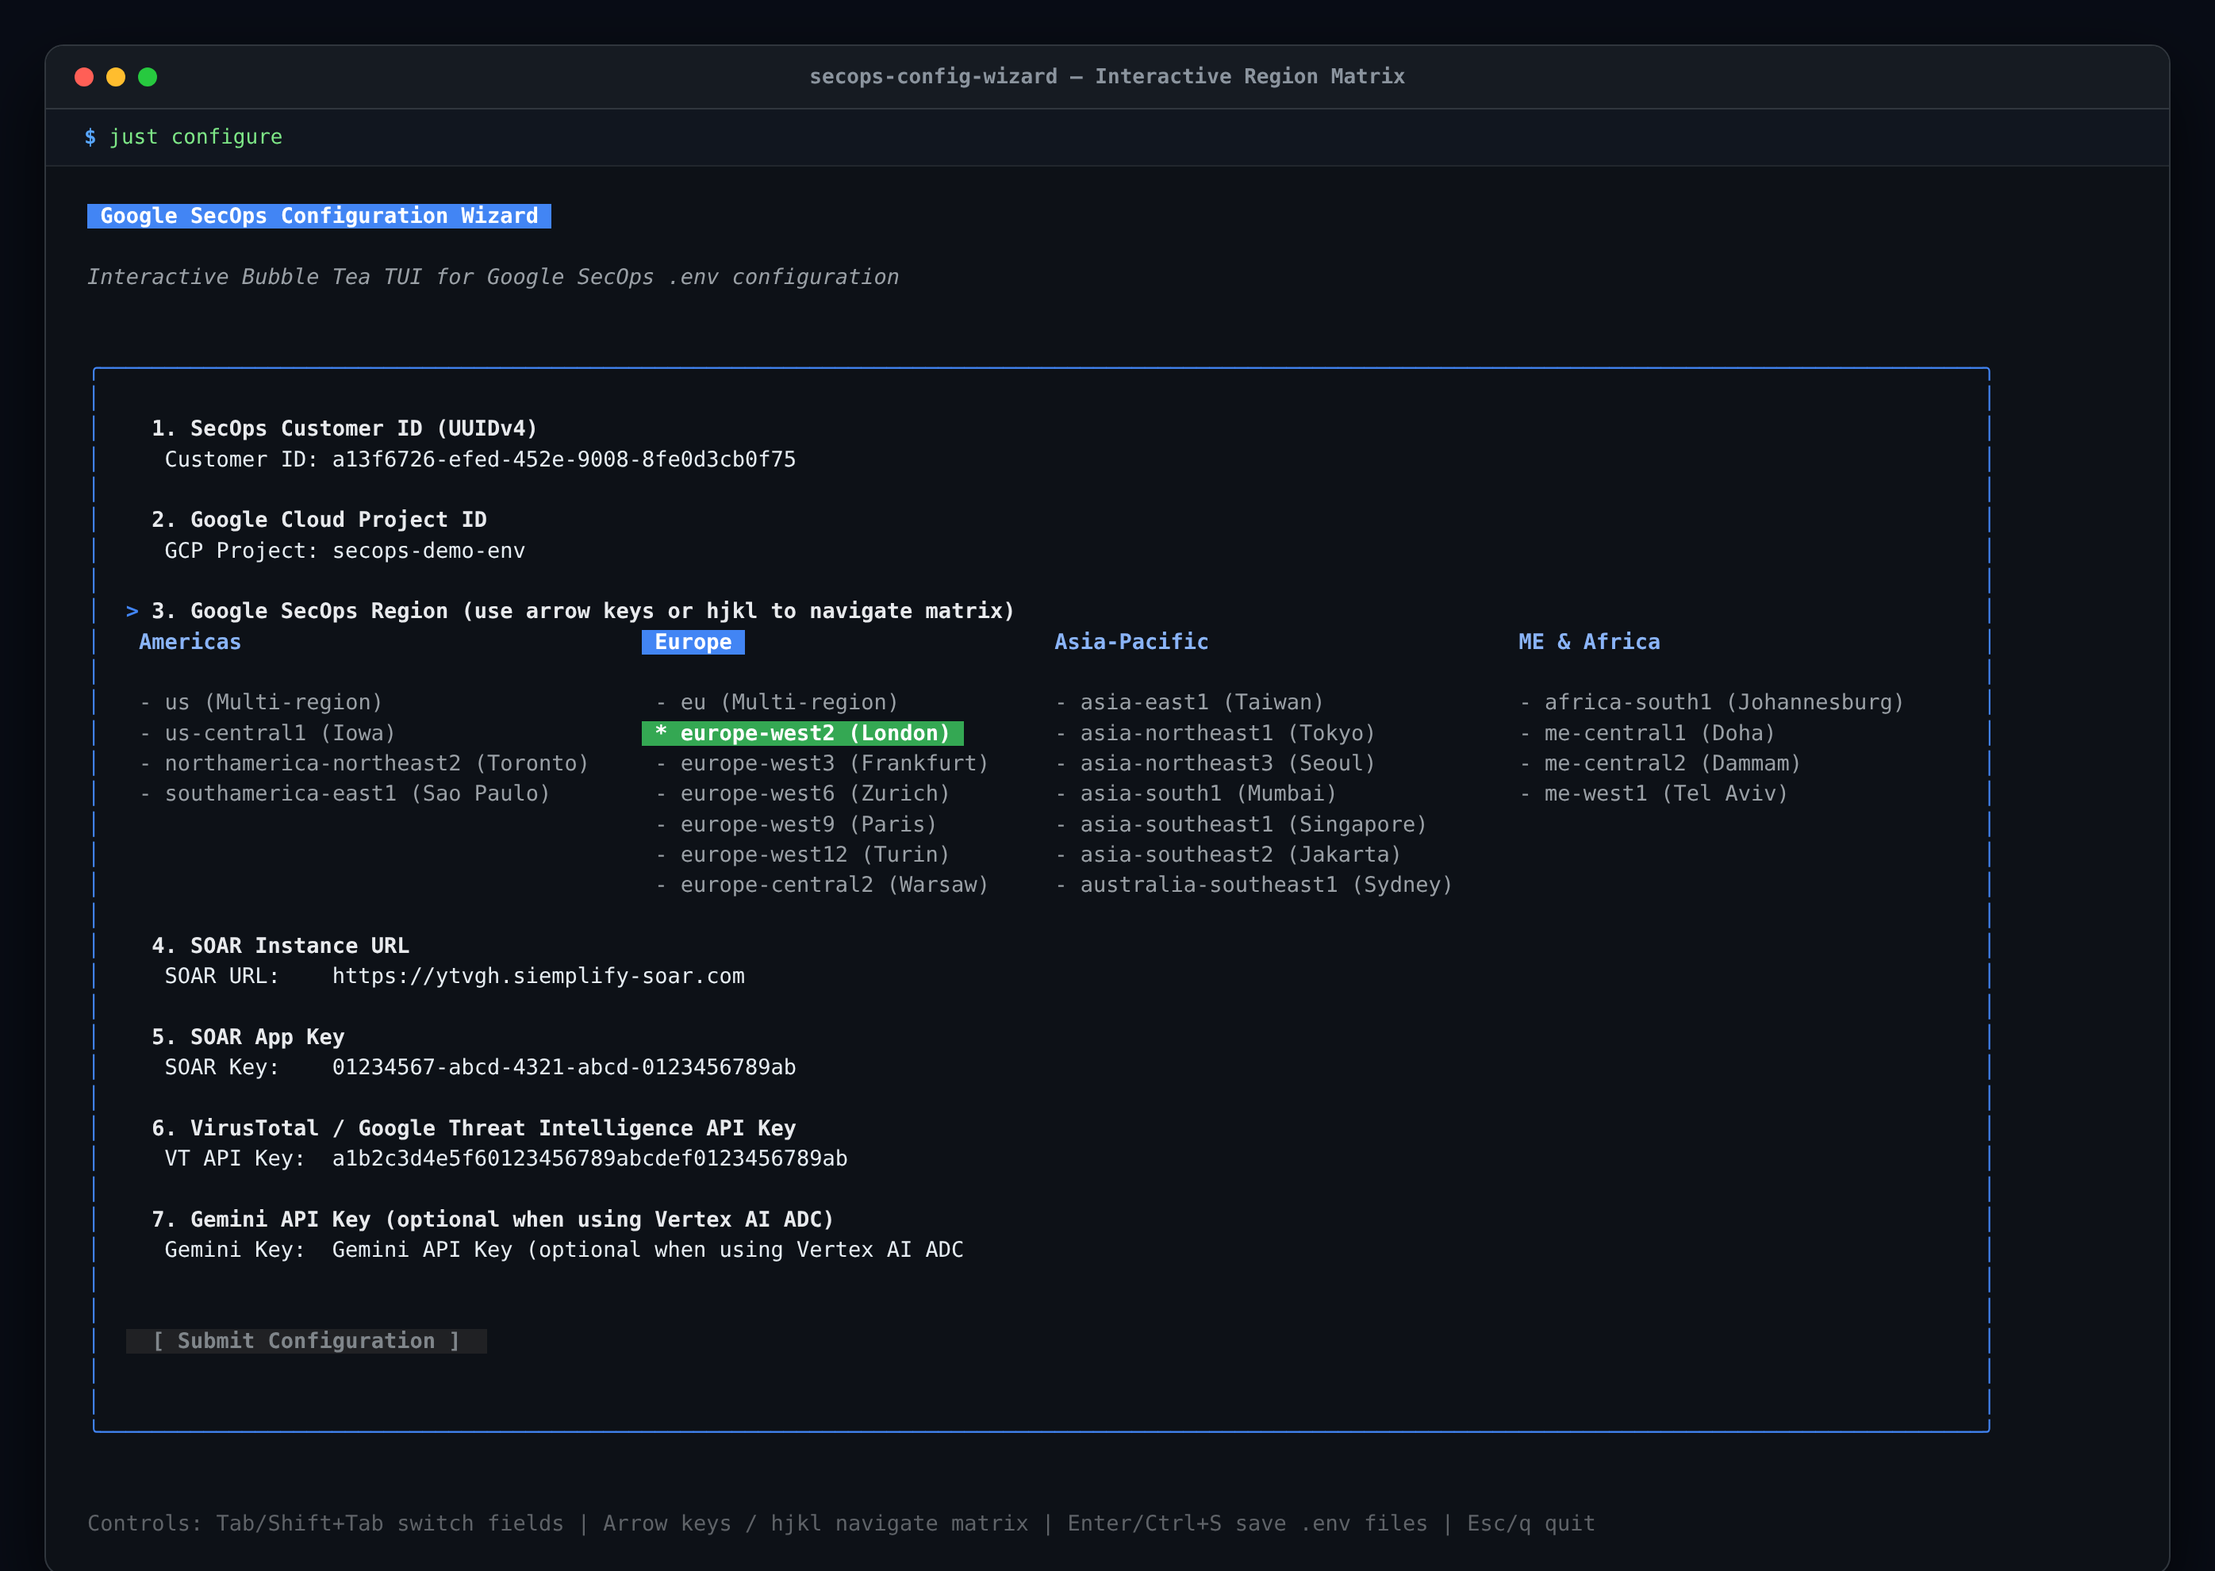
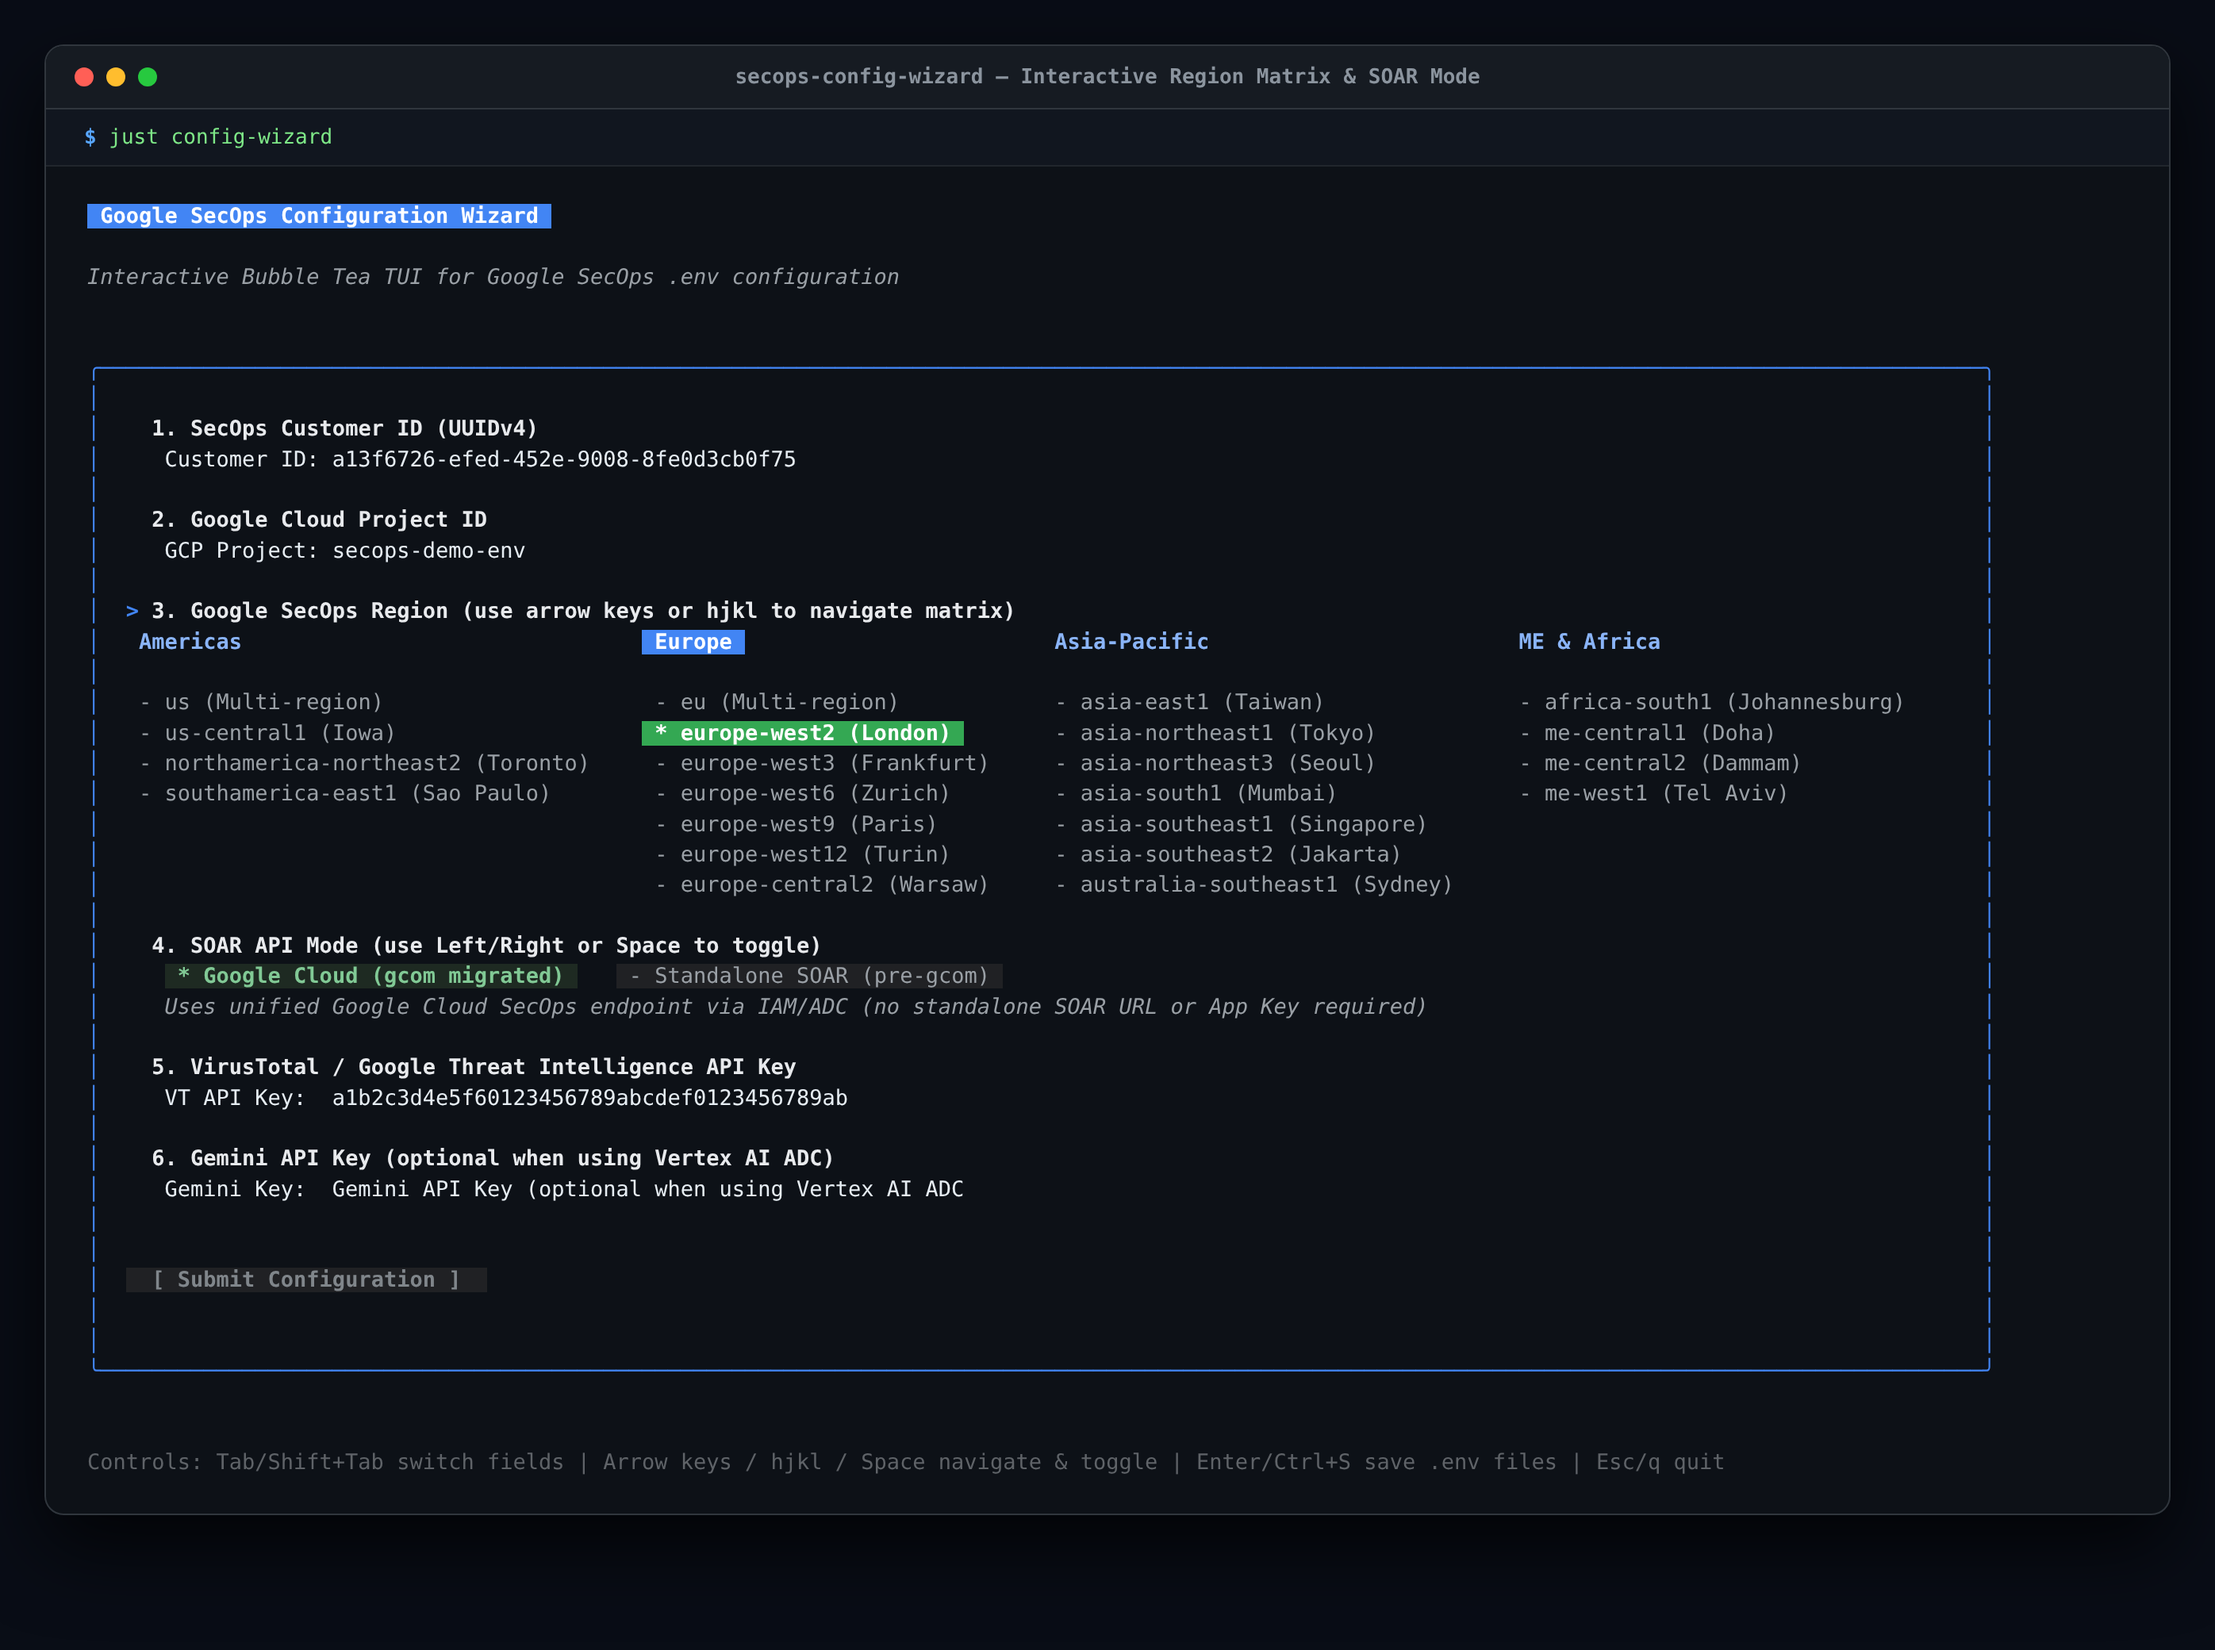
Add just config-wizard and just config-auto-discover recipes with SOAR mode toggle

diff --git a/SETUP_GEMINI.md b/SETUP_GEMINI.md
@@ -51,10 +51,22 @@ git submodule update --init --recursive
 You can configure your `.env` files interactively using the optional Bubble Tea configuration wizard submodule (`external/secops-config-wizard`), which initializes on demand:
 
 ```bash
-just configure
+just config-wizard
+```
+
+Or auto-discover your tenant settings from `https://<tenant>.backstory.chronicle.security/settings/profile` (by copying the **Chronicle API URL** or **Organization Details** block), active `gcloud` credentials, or local tenant configuration:
+
+```bash
+just config-auto-discover
+
+# Or pass the Chronicle API URL copied from /settings/profile directly:
+CHRONICLE_API_URL="https://us-chronicle.googleapis.com/projects/813924125873/locations/us/instances/a13f6726-efed-452e-9008-8fe0d3cb0f75"
+just config-auto-discover "$CHRONICLE_API_URL"
 ```
 
 ![Interactive Region Matrix](docs/images/secops_wizard_region_matrix.png)
+
+![Standalone SOAR Mode](docs/images/secops_wizard_standalone_soar.png)
 
 ![UUIDv4 Validation](docs/images/secops_wizard_uuid_validation.png)
 

diff --git a/README.md b/README.md
@@ -139,7 +139,10 @@ cd adk_runbooks
 just setup
 
 # Optional: Launch the interactive Bubble Tea TUI to configure .env files (initializes submodule on demand)
-just configure
+just config-wizard
+
+# Or auto-discover configuration from SecOps /settings/profile (Chronicle API URL), clipboard, or gcloud
+just config-auto-discover
 ```
 
 ### Running the Multi-Agent System
